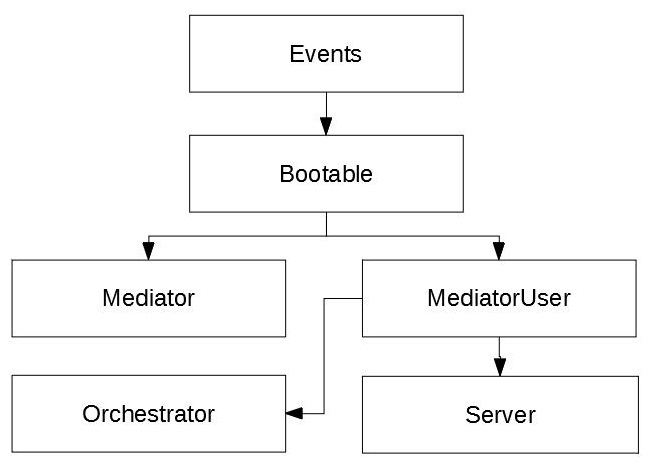
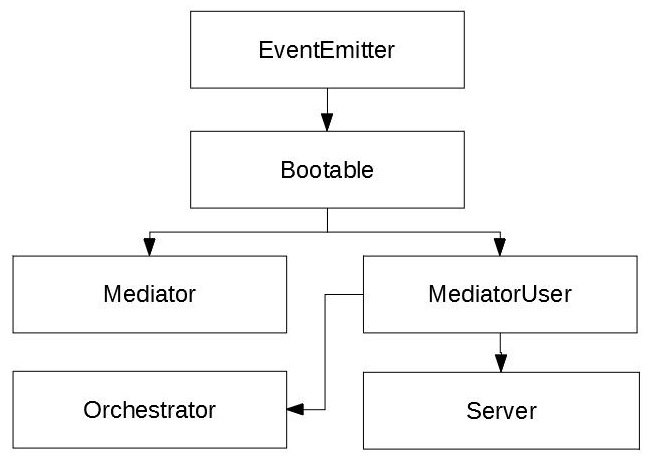
improve doc

diff --git a/test/5_Server.js b/test/5_Server.js
@@ -88,17 +88,12 @@ describe("Server", () => {
 
 			return new Promise((resolve) => {
 
-				const app = express();
-
-				app.use(server.appMiddleware);
-
-				app.get("/", (req, res) => {
-					res.send(RESPONSE_CONTENT);
-				});
-
-				runningServer = app.listen(PORT, () => {
-					resolve();
-				});
+				runningServer = express()
+					.use(server.appMiddleware)
+					.get("/", (req, res) => {
+						res.send(RESPONSE_CONTENT);
+					})
+					.listen(PORT, resolve);
 
 			}).then(() => {
 
@@ -126,9 +121,7 @@ describe("Server", () => {
 
 					}
 
-				}).listen(PORT, () => {
-					resolve();
-				});
+				}).listen(PORT, resolve);
 
 			}).then(() => {
 
@@ -142,13 +135,12 @@ describe("Server", () => {
 
 			return new Promise((resolve) => {
 
-				const app = express();
-
-				app.use(serverHerited.appMiddleware);
-
-				runningServer = app.listen(PORT, () => {
-					resolve();
-				});
+				runningServer = express()
+					.use(serverHerited.appMiddleware)
+					.get("/", (req, res) => {
+						res.send(RESPONSE_CONTENT);
+					})
+					.listen(PORT, resolve);
 
 			}).then(() => {
 
@@ -176,9 +168,7 @@ describe("Server", () => {
 
 					}
 
-				}).listen(PORT, () => {
-					resolve();
-				});
+				}).listen(PORT, resolve);
 
 			}).then(() => {
 

diff --git a/test/utils/ServerHerited.js b/test/utils/ServerHerited.js
@@ -21,13 +21,7 @@ module.exports = class ServerHerited extends Server {
 
 	appMiddleware (req, res, next) {
 
-		if (REQUEST_PATHNAME === req.url) {
-
-			res.status(RESPONSE_CODE).send(RESPONSE_CONTENT);
-
-		}
-
-		return next();
+		return REQUEST_PATHNAME === req.url ? res.status(RESPONSE_CODE).send(RESPONSE_CONTENT) : next();
 
 	}
 

diff --git a/README.md b/README.md
@@ -20,9 +20,24 @@ $ npm install node-pluginsmanager-plugin
   * proper architecture for simple plugin creation
   * heritable classes for each usage
 
+## Classes
+
+[Classes](./documentation/extends.jpg)
+
+  * [EventEmitter](#events)
+  * [Bootable](#bootable)
+  * [Mediator](#mediator)
+  * [MediatorUser](#mediatoruser)
+  * [Server](#server)
+  * [Orchestrator](#orchestrator)
+
+## Architecture
+
+[Architecture](./documentation/functional.jpg)
+
 ## Doc
 
-### Bootable (extends Events)
+### Bootable (extends EventEmitter)
 
   -- Methods --
 
